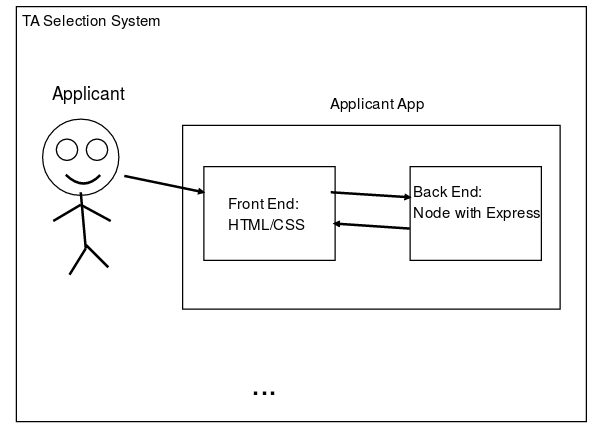
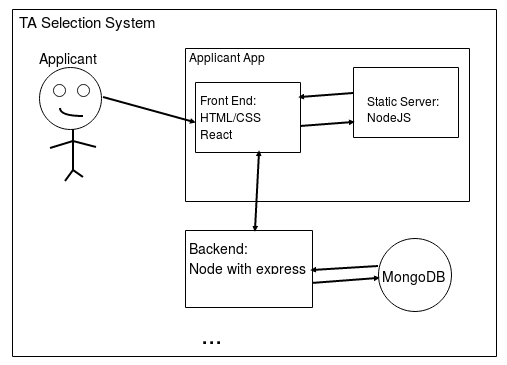
made changes to arch

diff --git a/doc/phase1/Arch.md b/doc/phase1/Arch.md
@@ -11,11 +11,11 @@ Alex Yan, Atheed Thameem, Gabrielle Singh Cadieux, Janarthanan Manoharan, Sajid 
 - HTML/CSS
 - Materialize CSS
 - React JS
-- Node JS
+- Node JS with Express
 - MongoDB
 
 ### Explanation
-The applicant interface of the TA Selection System will be using two web services to meet the requirements of the applicant. The user interface will be implememtented using React JS and the styling will be done with Materialize CSS, which smoothly integrates with React. The other aspect of the applicant interface is its backend. This includes serving static elements of the interface such as images, CSS files, Javascript files. It also includes expediting requests to access and modify data relevant to the applicant such as their personal and education information. Furthermore, the backend is used to send completed TA applications so that they can viewed from the side of the TA-Coordinator. The backend will be developed using Node Js with Express.
+The applicant interface of the TA Selection System will be using two web services to meet the requirements of the applicant. The user interface will be implememtented using React JS and the styling will be done with Materialize CSS, which smoothly integrates with React. The other aspect of the applicant interface is its backend. This includes serving static elements of the interface such as images, CSS files, Javascript files. While the static server will serve the front-end user interface aspects of the application, another backend server will be used, as well. This will be implemented using NodeJS, to accomplish any tasks that include communicating with the TA Coordinator side of the system.Such tasks include requests to access and modify data relevant to the applicant such as their personal and education information, which will be stored in the database. Furthermore, the backend is used to send completed TA applications so that they can viewed from the side of the TA-Coordinator.
 
 #### Visual Representation of the Applicant Interface
 
@@ -32,7 +32,7 @@ The applicant interface of the TA Selection System will be using two web service
 - MongoDB
 
 ### Explanation
-Similar to the applicant interface, the TA-Coordinator side of the application will also be split into two seperate web services that will work together to facilitate the operations done by the TA-coordinator. The user interface will be implementented using React JS and the styling will be done with Materialize CSS. The other aspect of the applicant interface is its backend. This includes serving static elements of the interface such as images, CSS files, Javascript files. It also includes expediting requests to access and modify data relevant to the applicant such as their employment status and search for applicants. MongoDB will be used to store all the information about the applicants. This includes their personal information, education information and application. The backend will be developed using Node Js with Express.
+Similar to the applicant interface, the TA-Coordinator side of the application will also be split into two seperate web services that will work together to facilitate the operations done by the TA-coordinator. The user interface will be implementented using React JS and the styling will be done with Materialize CSS. The other aspect of the TA Coordinator interface is its backend. This includes serving static elements of the interface such as images, CSS files, Javascript files. Another backend server will be used that is shared with the applicant side of the application. This server will take on the task of expediting requests to access and modify data relevant to the applicant such as their employment status and search for applicants from the database. MongoDB will be used to store all the information about the applicants. This includes their personal information, education information and applications.
 
 #### Visual Representation of the TA-Coordinator Interface
 
